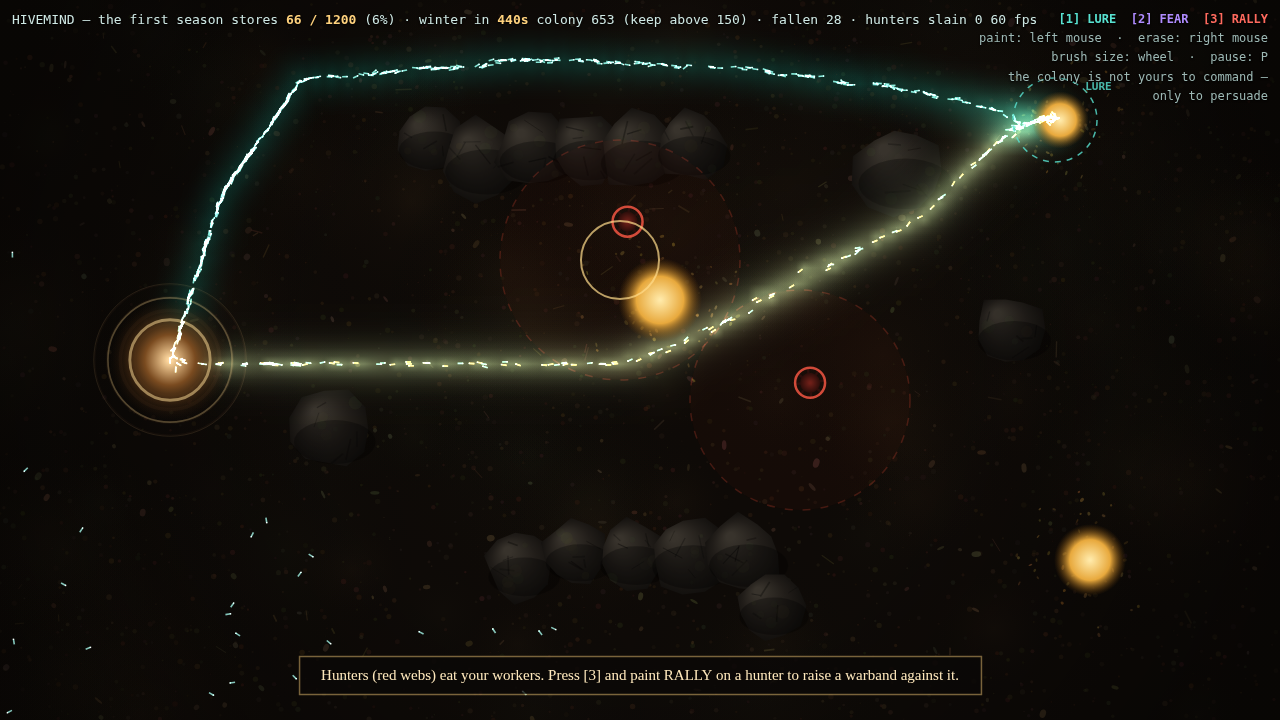
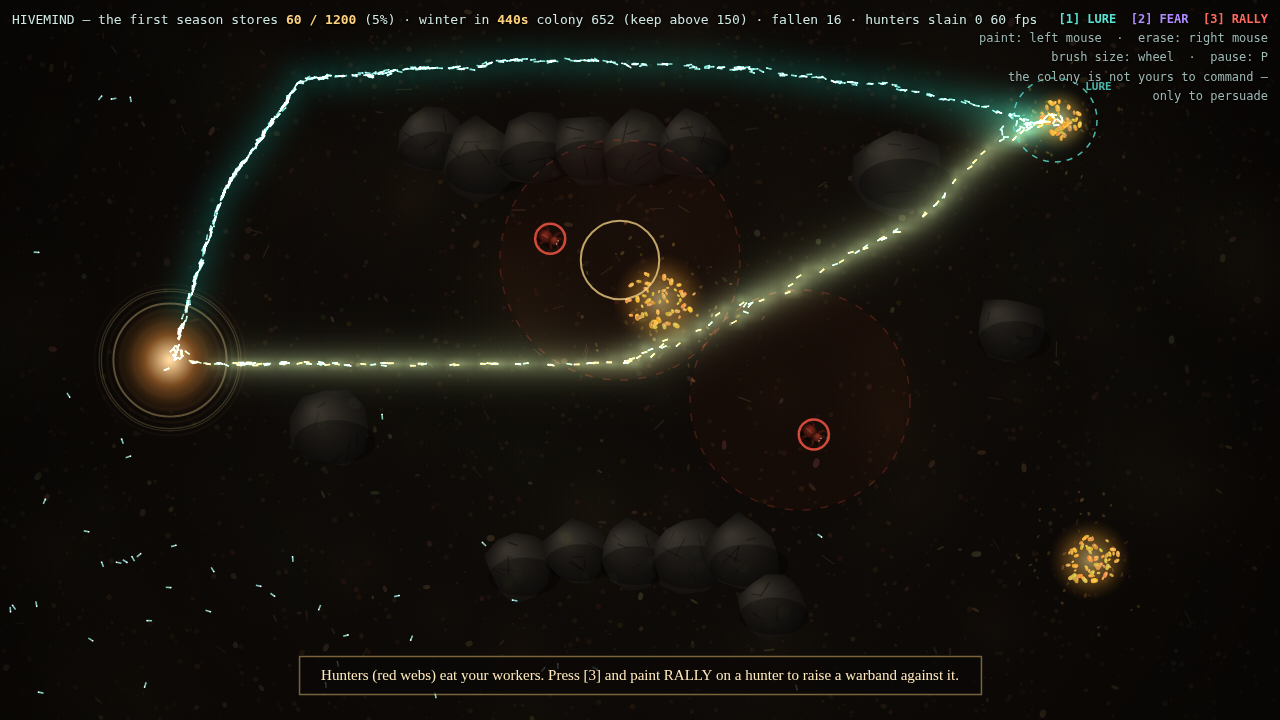
Art: piles are grain mounds that empty outside-in; spiders get bodies, gait, eyes
- Piles render as 64 precomputed seeded grains over a soft glow; rim grains
  vanish first as the real amount drains — depletion is now readable at a
  glance (and it matters in the drought, where the sun eats the rim too).
- Spiders: ground shadow, two-lobe gradient body with dorsal mark, fangs,
  eye glints, two-segment legs on an alternating antiphase gait driven by
  sim.time (render-only, no sim reads mutated).
- tools/art_closeup.mjs for zoomed inspection stills.
- hivemind.gif re-recorded with the new art (3.9MB).

Verified: commander seed-7 byte-identical (WON 1200 t=175 died 679), click
test PASS, 60fps in stills, dist 72.0KB reproduces drought win.

Claude-Session: https://claude.ai/code/session_017wfb7Qrw39WygdTHDRSWw7

diff --git a/game/js/render.js b/game/js/render.js
@@ -108,9 +108,26 @@ export function makeRenderer(canvas, world) {
   const fctx = fc.getContext('2d');
   const fimg = fctx.createImageData(GW, GH);
 
+  // per-pile grain mounds, precomputed once (seeded): the pile renders as
+  // discrete grains and visibly EMPTIES outside-in as it is harvested
+  const pileGrains = (world ? world.piles : []).map((p) => {
+    const grains = [];
+    for (let k = 0; k < 64; k++) {
+      const a = r() * 6.28;
+      const d = Math.sqrt(r()) * p.r * 0.85;
+      grains.push({
+        dx: Math.cos(a) * d, dy: Math.sin(a) * d * 0.82, d,
+        gr: 1.6 + r() * 2.2, rot: r() * 3.14,
+        c: `rgb(${205 + (r() * 50) | 0},${145 + (r() * 55) | 0},${45 + (r() * 40) | 0})`,
+      });
+    }
+    grains.sort((g1, g2) => g2.d - g1.d); // outer first: harvest eats the rim
+    return { grains, amount0: p.amount };
+  });
+
   // transient feedback state (render-side only — never touches the sim)
   const fx = { lastBanked: -1, deadSeen: new Set(), pulses: [], bursts: [], lastT: 0 };
-  return { ctx, bg, fc, fctx, fimg, fx };
+  return { ctx, bg, fc, fctx, fimg, fx, pileGrains };
 }
 
 // detect sim events by delta and spawn transient feedback
@@ -177,14 +194,32 @@ export function draw(R, sim, ui) {
   ctx.drawImage(R.fc, 0, 0, GW, GH, 0, 0, W, H);
   ctx.restore();
 
-  // food piles
-  for (const p of world.piles) {
-    if (p.amount <= 0) continue;
-    const rr = p.r * (0.35 + 0.65 * Math.min(1, p.amount / 600));
-    const g = ctx.createRadialGradient(p.x, p.y, 1, p.x, p.y, rr);
-    g.addColorStop(0, '#ffe9a8'); g.addColorStop(0.55, '#e8a93d'); g.addColorStop(1, 'rgba(120,70,10,0)');
-    ctx.fillStyle = g; ctx.beginPath(); ctx.arc(p.x, p.y, rr, 0, 7); ctx.fill();
-  }
+  // food piles: a warm under-glow plus a mound of discrete grains that
+  // empties outside-in with the actual amount left
+  world.piles.forEach((p, pi) => {
+    if (p.amount <= 0) return;
+    const pg = R.pileGrains[pi];
+    const frac = Math.min(1, p.amount / (pg ? pg.amount0 : 600));
+    const rr = p.r * (0.3 + 0.7 * frac);
+    const g = ctx.createRadialGradient(p.x, p.y, 1, p.x, p.y, rr * 1.15);
+    g.addColorStop(0, 'rgba(255,225,150,0.55)'); g.addColorStop(0.6, 'rgba(220,150,50,0.28)'); g.addColorStop(1, 'rgba(120,70,10,0)');
+    ctx.fillStyle = g; ctx.beginPath(); ctx.arc(p.x, p.y, rr * 1.15, 0, 7); ctx.fill();
+    if (pg) {
+      const n = pg.grains.length;
+      const start = Math.floor(n * (1 - frac)); // rim grains vanish first
+      for (let k = start; k < n; k++) {
+        const gr = pg.grains[k];
+        const sc = 0.3 + 0.7 * frac;
+        ctx.save();
+        ctx.translate(p.x + gr.dx * sc, p.y + gr.dy * sc); ctx.rotate(gr.rot);
+        ctx.fillStyle = gr.c;
+        ctx.beginPath(); ctx.ellipse(0, 0, gr.gr, gr.gr * 0.62, 0, 0, 7); ctx.fill();
+        ctx.fillStyle = 'rgba(255,240,200,0.5)';
+        ctx.beginPath(); ctx.ellipse(-gr.gr * 0.25, -gr.gr * 0.2, gr.gr * 0.35, gr.gr * 0.2, 0, 0, 7); ctx.fill();
+        ctx.restore();
+      }
+    }
+  });
 
   // nest
   {
@@ -220,19 +255,51 @@ export function draw(R, sim, ui) {
   }
   ctx.globalCompositeOperation = 'source-over';
 
-  // spiders
+  // spiders: two-lobe body, articulated legs with an alternating gait
+  // (opposite leg pairs lift in antiphase), eye glints — reads as a hunter,
+  // not a asterisk, at closer inspection
   for (const sp of world.spiders) {
     if (!sp.alive) continue;
     ctx.save(); ctx.translate(sp.x, sp.y); ctx.rotate(sp.a);
-    ctx.strokeStyle = '#2b0f0c'; ctx.lineWidth = 2.4;
-    for (let k = 0; k < 4; k++) {
-      const a = (k / 4) * Math.PI - Math.PI / 2 + 0.35;
-      ctx.beginPath(); ctx.moveTo(0, 0); ctx.lineTo(Math.cos(a) * 16, Math.sin(a) * 16); ctx.stroke();
-      ctx.beginPath(); ctx.moveTo(0, 0); ctx.lineTo(-Math.cos(a) * 16, Math.sin(a) * 16); ctx.stroke();
+    // ground shadow
+    ctx.fillStyle = 'rgba(0,0,0,0.35)';
+    ctx.beginPath(); ctx.ellipse(-2, 2.5, 13, 7, 0, 0, 7); ctx.fill();
+    // legs: two segments (hip->knee->foot), gait phase alternates per leg
+    for (let side = -1; side <= 1; side += 2) {
+      for (let k = 0; k < 4; k++) {
+        const base = (-0.95 + k * 0.62) * side + (side < 0 ? Math.PI : 0);
+        const phase = sim.time * 6 + k * 1.9 + (side + 1) * 0.9 + ((k % 2) * Math.PI);
+        const swing = Math.sin(phase) * 0.14;
+        const lift = Math.max(0, Math.sin(phase)) * 0.25;
+        const a1 = base + swing;
+        const hx = Math.cos(a1) * 4.5, hy = Math.sin(a1) * 4.5;
+        const kx = Math.cos(a1) * 11, ky = Math.sin(a1) * 11 - lift * 4;
+        const fa = a1 + 0.35 * side;
+        const fx2 = Math.cos(fa) * 17.5, fy2 = Math.sin(fa) * 17.5;
+        ctx.strokeStyle = '#40160e'; ctx.lineWidth = 2.2;
+        ctx.beginPath(); ctx.moveTo(hx, hy); ctx.lineTo(kx, ky); ctx.stroke();
+        ctx.strokeStyle = '#331109'; ctx.lineWidth = 1.6;
+        ctx.beginPath(); ctx.moveTo(kx, ky); ctx.lineTo(fx2, fy2); ctx.stroke();
+      }
     }
-    const g = ctx.createRadialGradient(0, 0, 1, 0, 0, 11);
-    g.addColorStop(0, '#6e1f18'); g.addColorStop(1, '#240b08');
-    ctx.fillStyle = g; ctx.beginPath(); ctx.arc(0, 0, 10, 0, 7); ctx.fill();
+    // abdomen (rear lobe) with a pale dorsal marking
+    const ga = ctx.createRadialGradient(-6, -2, 1, -5, 0, 8.5);
+    ga.addColorStop(0, '#79251b'); ga.addColorStop(0.7, '#3a1009'); ga.addColorStop(1, '#1c0705');
+    ctx.fillStyle = ga;
+    ctx.beginPath(); ctx.ellipse(-5, 0, 8, 6.2, 0, 0, 7); ctx.fill();
+    ctx.strokeStyle = 'rgba(220,170,120,0.28)'; ctx.lineWidth = 1;
+    ctx.beginPath(); ctx.moveTo(-9.5, 0); ctx.lineTo(-2.5, 0); ctx.stroke();
+    // cephalothorax (front lobe)
+    const gc = ctx.createRadialGradient(4, -1.5, 0.5, 4.5, 0, 5.5);
+    gc.addColorStop(0, '#8a3020'); gc.addColorStop(1, '#2a0c07');
+    ctx.fillStyle = gc;
+    ctx.beginPath(); ctx.ellipse(4.5, 0, 5.2, 4.4, 0, 0, 7); ctx.fill();
+    // eye glints + fangs
+    ctx.fillStyle = 'rgba(255,200,160,0.9)';
+    ctx.fillRect(7.5, -2.2, 1.3, 1.3); ctx.fillRect(7.5, 1, 1.3, 1.3);
+    ctx.strokeStyle = '#1c0705'; ctx.lineWidth = 1.4;
+    ctx.beginPath(); ctx.moveTo(9, -1.6); ctx.lineTo(11.5, -0.7); ctx.stroke();
+    ctx.beginPath(); ctx.moveTo(9, 1.6); ctx.lineTo(11.5, 0.7); ctx.stroke();
     ctx.restore();
     // hp arc
     ctx.strokeStyle = 'rgba(255,90,70,0.8)'; ctx.lineWidth = 2.5;

diff --git a/PLAYTEST_LOG.md b/PLAYTEST_LOG.md
@@ -336,3 +336,28 @@ Entry template:
     humans is UNKNOWN — same founder-blocked human-playtest dependency.
 - Action taken: committed; scenario is in the build behind ?scn=drought and
   the title-screen [S] switch; data in data/drought_sweep_20260711.md.
+
+## 2026-07-11 ~16:50 UTC — Art continuation: pile grain mounds + articulated spiders
+
+- Hypothesis / what was tested: remaining art-direction scope (BACKLOG Now
+  #2): piles read as gradient blobs and spiders as asterisks at closer
+  inspection.
+- How it was run: implemented render-only changes (per-pile precomputed
+  grain mounds that empty outside-in with the real amount left; spiders as
+  two-lobe bodies with two-segment legs on an alternating gait, eye glints,
+  fangs, ground shadow); verified with 2-3x zoomed closeups
+  (tools/art_closeup.mjs, media/proto/closeup_*.png), full-frame stills,
+  and the standard battery.
+- Observed results (facts): commander seed-7 regression byte-identical
+  (WON 1200 t=175 died 679) — render-only confirmed; click test PASS;
+  60 fps observed in stills with grain piles + spider live; dist rebuilt
+  72.0KB and reproduces the drought win (205). hivemind.gif re-recorded
+  with the new art (51 frames, 3.9MB, was 6.4MB pre-juice).
+- Evidence class: VERIFIED FACT for determinism/tests/fps; the visual
+  quality is CREATIVE JUDGMENT from stills (piles now visibly DEPLETE —
+  which is also information design, the rim grains vanish as it drains).
+- Weaknesses: spider legs still subtle at play zoom (fine in motion, gait
+  animates); ant silhouette unchanged (2600 draws/frame budget); palette
+  identity still informal.
+- Action taken: committed. Remaining art scope: palette pass, ant
+  silhouette if a cheap trick appears.